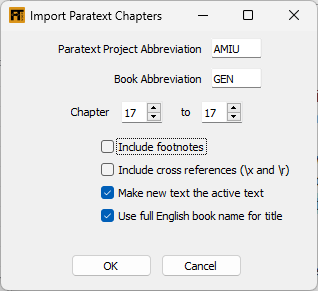
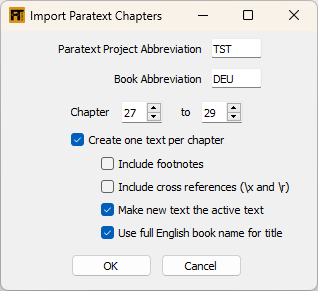
more changes

diff --git a/Doc/UserDoc.htm b/Doc/UserDoc.htm
@@ -729,7 +729,7 @@
       <p>Most of the tasks in <span style="font-family:Courier New; font-weight:bold; color:navy; ">FLExTrans</span> are accomplished by running several modules. To make it easier to find the modules needed for larger tasks, collections provide
          a way to see only a subset of the available modules, presented in a set sequence. Modules can be in more than one collection.
       </p>
-      <p>To change to a different collection, click the desired collection tab. </p>
+      <p>To change to a different collection, click the desired collection tab.</p>
       <p>To manage collections, select <span style="font-family:Courier New; font-weight:bold; color:#009933; ">Manage Collections</span> from the <span style="font-family:Courier New; font-weight:bold; color:#009933; ">FLExTools</span> menu.
       </p>
       <p>This will bring up the Collections Manager, as shown in <a href="#xCollectionsManager">(16)</a></p>
@@ -977,6 +977,8 @@
       </p>
       <p>Additional options are the following:</p>
       <ul>
+         <li><span style="font-style:italic; font-weight:bold; ">Create one text per chapter</span> - when more than one chapter is specified, create one text in <span style="font-family:Courier New; font-weight:bold; color:navy; ">FLEx</span> for each chapter.
+         </li>
          <li><span style="font-style:italic; font-weight:bold; ">Include footnotes</span> - include all the text involved with footnotes
          </li>
          <li><span style="font-style:italic; font-weight:bold; ">Include cross references</span> - include all the text involved with cross references, namely \x and \r marked text.
